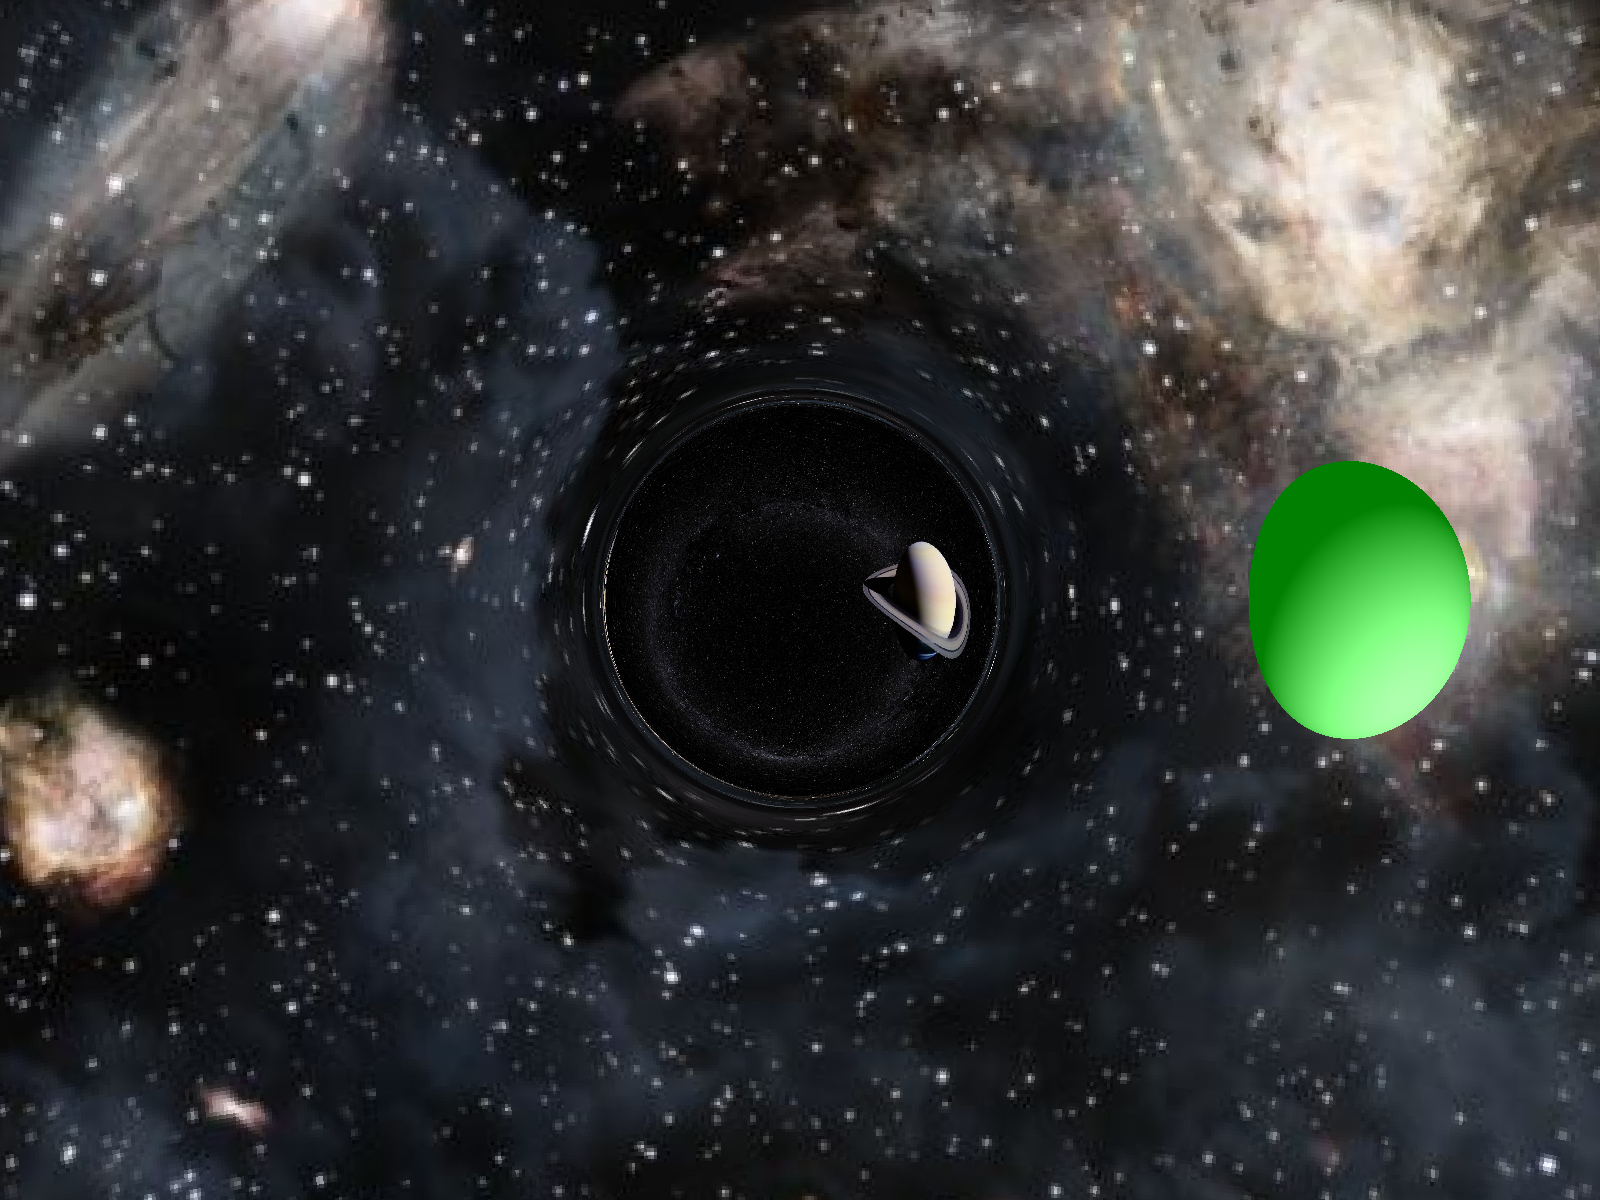
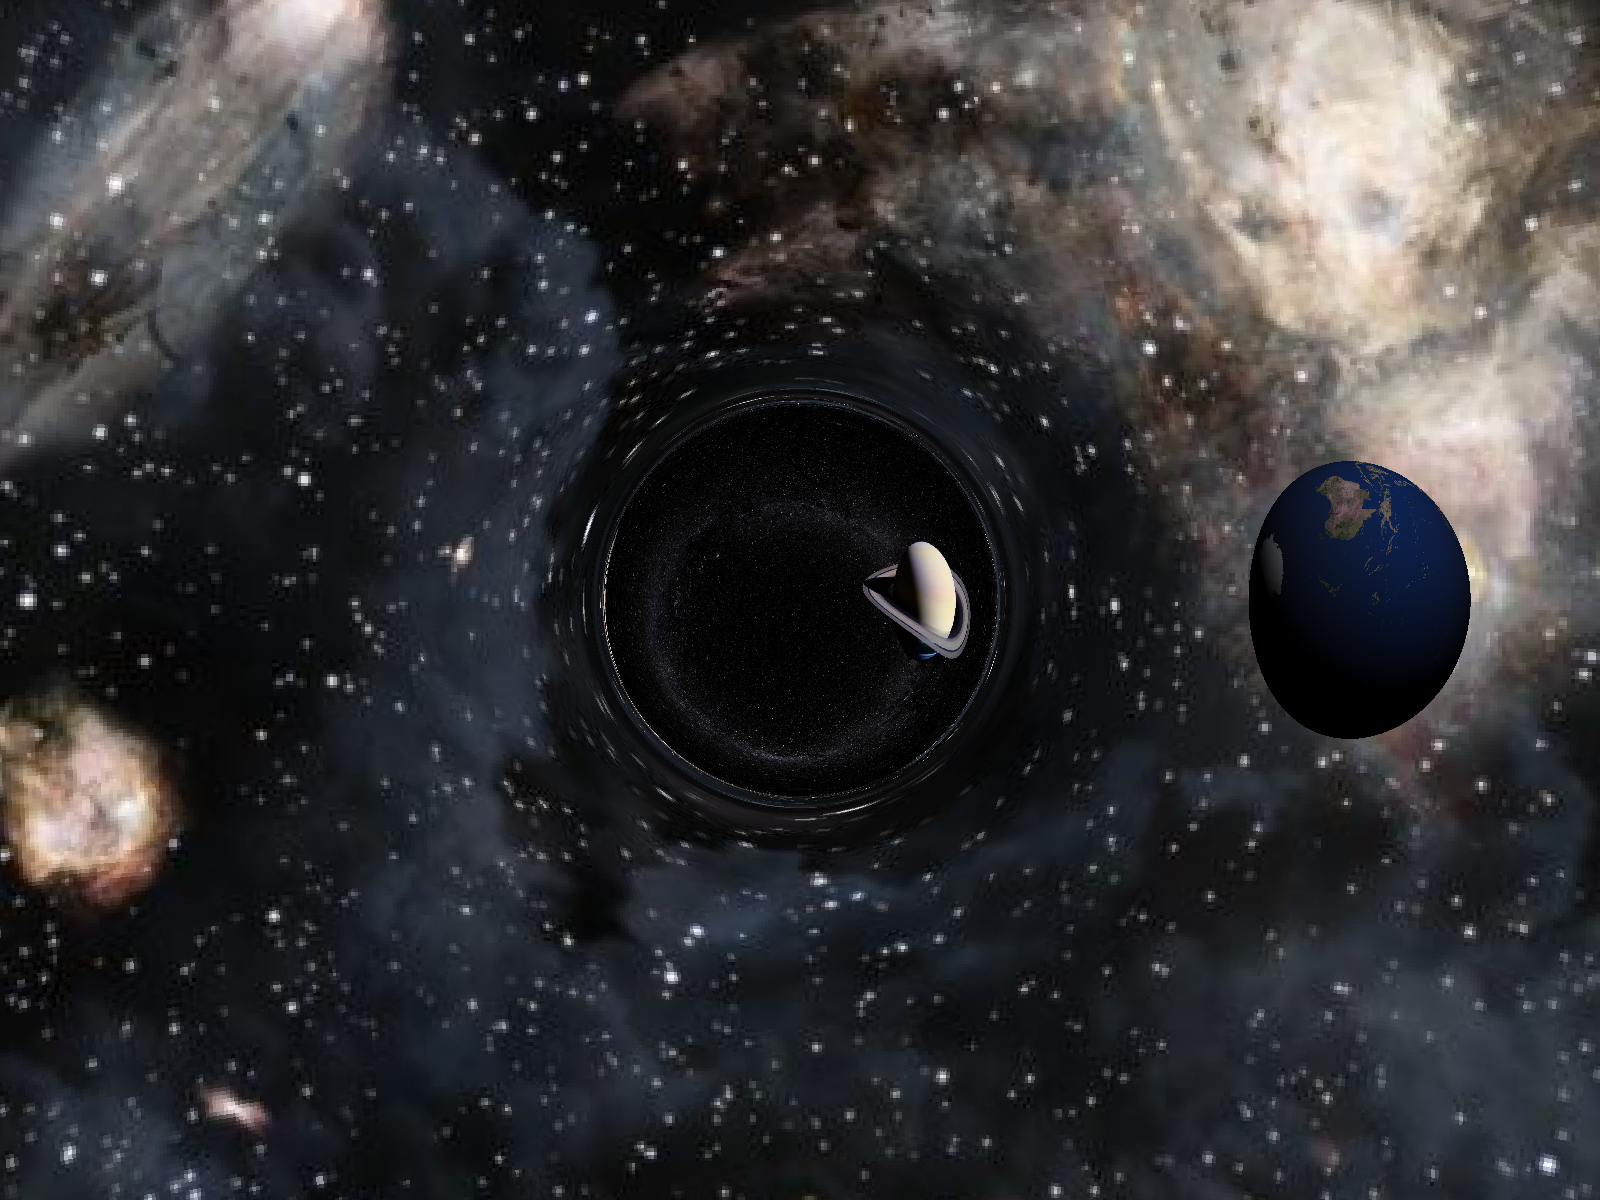
LSDKJF

Changed region(s): [[0.7812, 0.37, 0.9375, 0.6167]]

diff --git a/src/lighting.cpp b/src/lighting.cpp
@@ -31,40 +31,39 @@ static inline float calc_falloff(const float &inner, const float &outer, const f
 glm::vec3 shadePixel(const Hit &hit, const ImageData &texture, const BumpMap &bump_map,
                      const std::vector<SceneLightData> &lights)
 {
-    static const float ka = 1.f; // HARDCODED
+    static const float ka = 0.f; // HARDCODED
     static const float kd = 1.f; // HARDCODED
     // static const float ks = 1.f; // HARDCODED
     const float shininess = 0.5f;
 
-    const glm::vec3 obj_A = glm::vec3(0.f, 0.5f, 0.f) * ka; // HARDCODED
+    const glm::vec3 obj_A = glm::vec3(1.f, 1.f, 1.f) * ka; // HARDCODED
     glm::vec3 obj_D = glm::vec3(1.f, 1.f, 1.f) * kd;       // HARDCODED
     // const glm::vec3 obj_S = glm::vec3(1.f, 1.f, 1.f) * ks; // HARDCODED
 
-    const glm::vec3 obj_point = glm::normalize(glm::vec3(hit.point) - hit.sphere.center); // point in object space
+    const glm::vec3 obj_point = (glm::vec3(hit.point) - hit.sphere.center) / hit.sphere.radius / 2.f; // point in object space
+    const glm::vec3 obj_normal = glm::normalize(obj_point);
     const float obj_side = hit.point[3];
     // const glm::mat3 transform = glm::inverse(glm::transpose(glm::mat3(hit.shape->ctm)));
 
     const uv uv_map = get_uv(obj_point);
 
     const bool enableBumpMap = false; // HARDCODED
-    const glm::vec3 obj_normal =
+    const glm::vec3 bump_normal =
         enableBumpMap && bump_map.width > 0
-            ? get_bump_normal(bump_map, FilterType::Bilinear, uv_map, 0.01, obj_point)
-            : obj_point;
+            ? get_bump_normal(bump_map, FilterType::Bilinear, uv_map, 0.01, obj_normal)
+            : obj_normal;
     const glm::vec3 N = glm::normalize(/*transform **/ obj_normal);
     // const glm::vec3 V = glm::normalize(world_camera - glm::vec3(intersect));
 
     // Blend obj_D with textures
-    const bool enableTextureMap = false;                    // HARDCODED
-    const FilterType textureFilter = FilterType::Nearest; // HARDCODED
+    const bool enableTextureMap = true;                    // HARDCODED
+    const FilterType textureFilter = FilterType::Bilinear; // HARDCODED
 
     if (enableTextureMap && texture.width > 0)
     {
-        std::cout << "OPEN" << std::endl;
         const float blend = 1.0; // HARDCODED
         const glm::vec3 texture_color = get_texture(texture, textureFilter, uv_map);
         obj_D = obj_D * (1.f - blend) + texture_color * blend;
-        std::cout << "CLOSE" << std::endl;
     }
 
     glm::vec3 pixel_color(obj_A);
@@ -79,7 +78,7 @@ glm::vec3 shadePixel(const Hit &hit, const ImageData &texture, const BumpMap &bu
 
         glm::vec3 phong(0.f);
 
-        const glm::vec3 to_light = calc_light_vec(obj_point, light);
+        const glm::vec3 to_light = calc_light_vec(glm::vec3(hit.point), light);
         const glm::vec3 L_i = glm::normalize(to_light); // Vector from point to light
         const glm::vec3 R = glm::normalize(2.f * glm::dot(L_i, N) * N - L_i);
 
@@ -119,12 +118,12 @@ glm::vec3 shadePixel(const Hit &hit, const ImageData &texture, const BumpMap &bu
         bool directional = light.type == LightType::LIGHT_DIRECTIONAL;
 
         // Attenuation effect
-        if (!directional && light_intensity > 1e-6f)
-        {
-            const float dist = glm::distance(glm::vec3(obj_point), glm::vec3(light.pos));
-            const float mult = 1.f / glm::dot(light.function, glm::vec3(1.f, dist, dist * dist));
-            light_intensity *= std::min(1.f, mult);
-        }
+        // if (!directional && light_intensity > 1e-6f)
+        // {
+        //     const float dist = glm::distance(glm::vec3(obj_point), glm::vec3(light.pos));
+        //     const float mult = 1.f / glm::dot(light.function, glm::vec3(1.f, dist, dist * dist));
+        //     light_intensity *= std::min(1.f, mult);
+        // }
 
         pixel_color += phong * light_intensity;
     }

diff --git a/src/main.cpp b/src/main.cpp
@@ -97,7 +97,7 @@ int main(int argc, char *argv[]) {
     SphereData sphereData{spherePos, 0.5, -length(spherePos)};
 
     // make point light
-    SceneLightData light{LightType::LIGHT_POINT, glm::vec4(1.0), glm::vec3(0.8, 0.05, 0.0), glm::vec4(10.0, 2.0, 10.0, -1.0), glm::vec3(-1.0, 0.0, -1.0), 1.0, 1.0};
+    SceneLightData light{LightType::LIGHT_POINT, glm::vec4(1.0), glm::vec3(0.2, 0.05, 0.0), glm::vec4(3.0, 2.0, 3.0, -1.0), glm::vec3(-1.0, 0.0, -1.0), 1.0, 1.0};
 
     // 4. Render using FOV from config (scene.viewPlaneWidthAngle is in radians)
     render(framebuffer,

diff --git a/src/textures.cpp b/src/textures.cpp
@@ -6,7 +6,7 @@ uv get_uv(const glm::vec3 &obj_point)
 {
     const float theta = atan2(obj_point.z, obj_point.x);
     const float u = theta < 0 ? -(theta) / (2.f * M_PI) : 1.f - (theta) / (2.f * M_PI);
-    const float v = asin(obj_point.y / 0.5f) / M_PI + .5f;
+    const float v = asin(std::clamp(obj_point.y, -0.5f, 0.5f) / 0.5f) / M_PI + .5f;
     return uv{u, v};
 }
 
